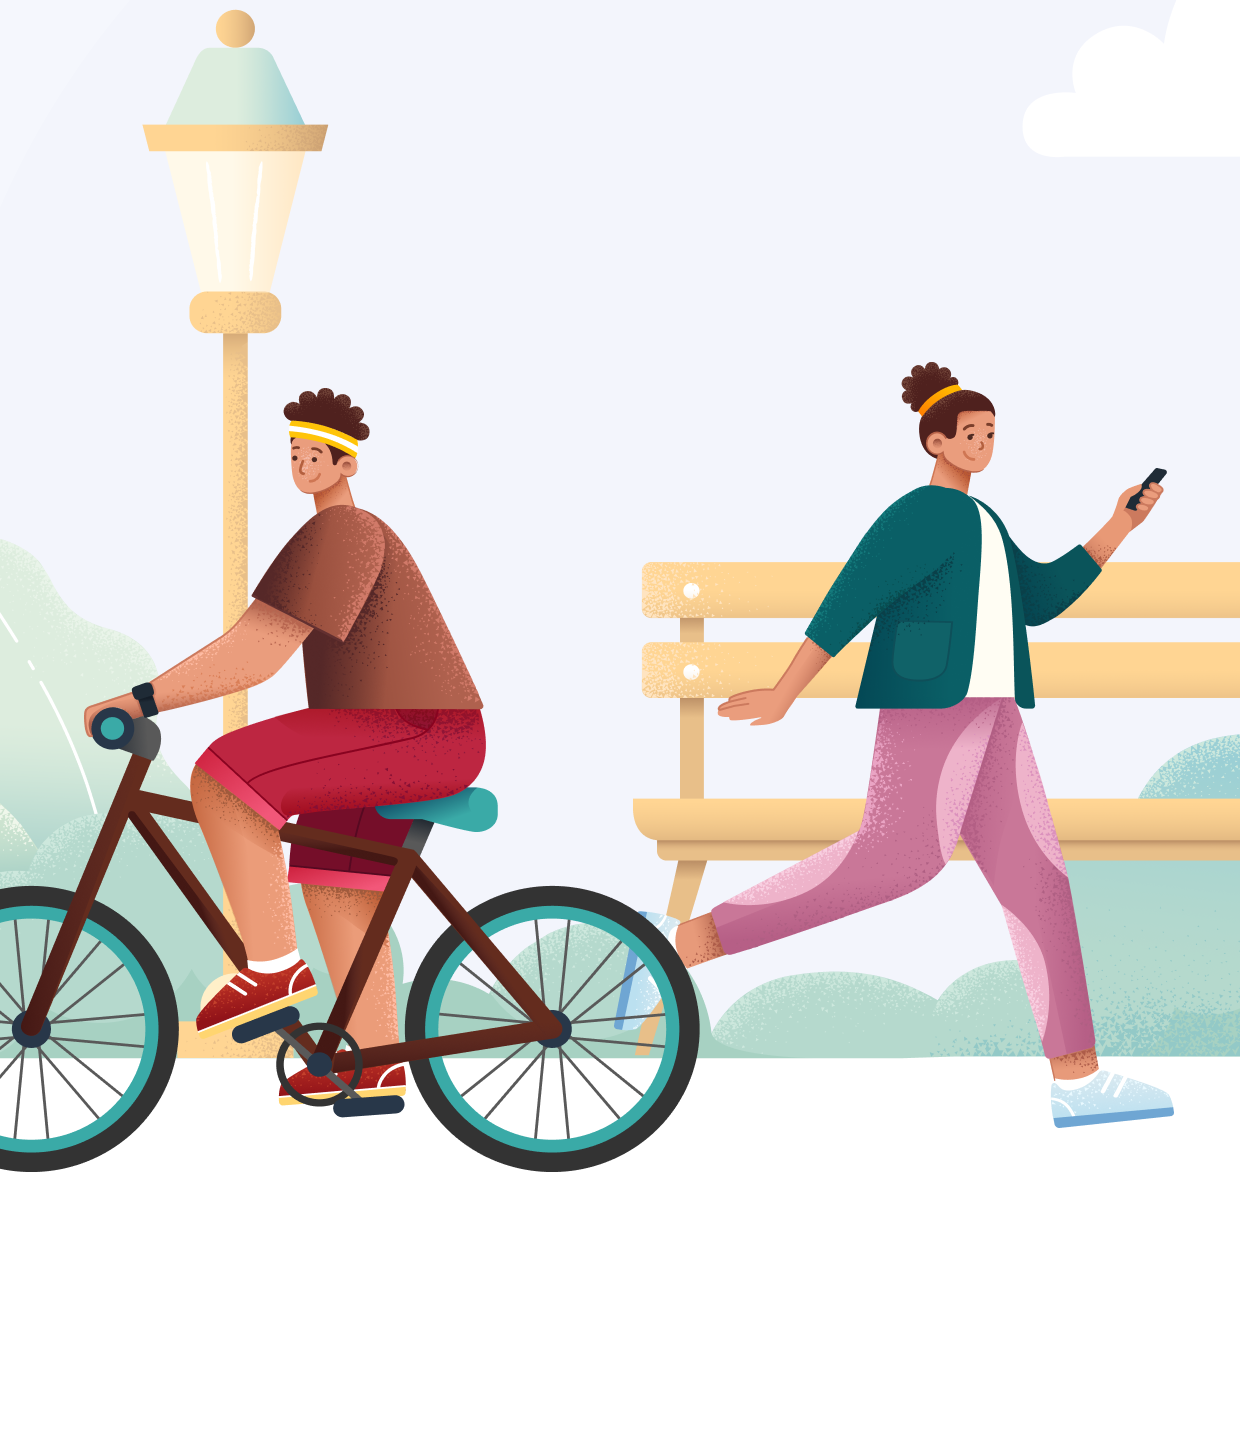
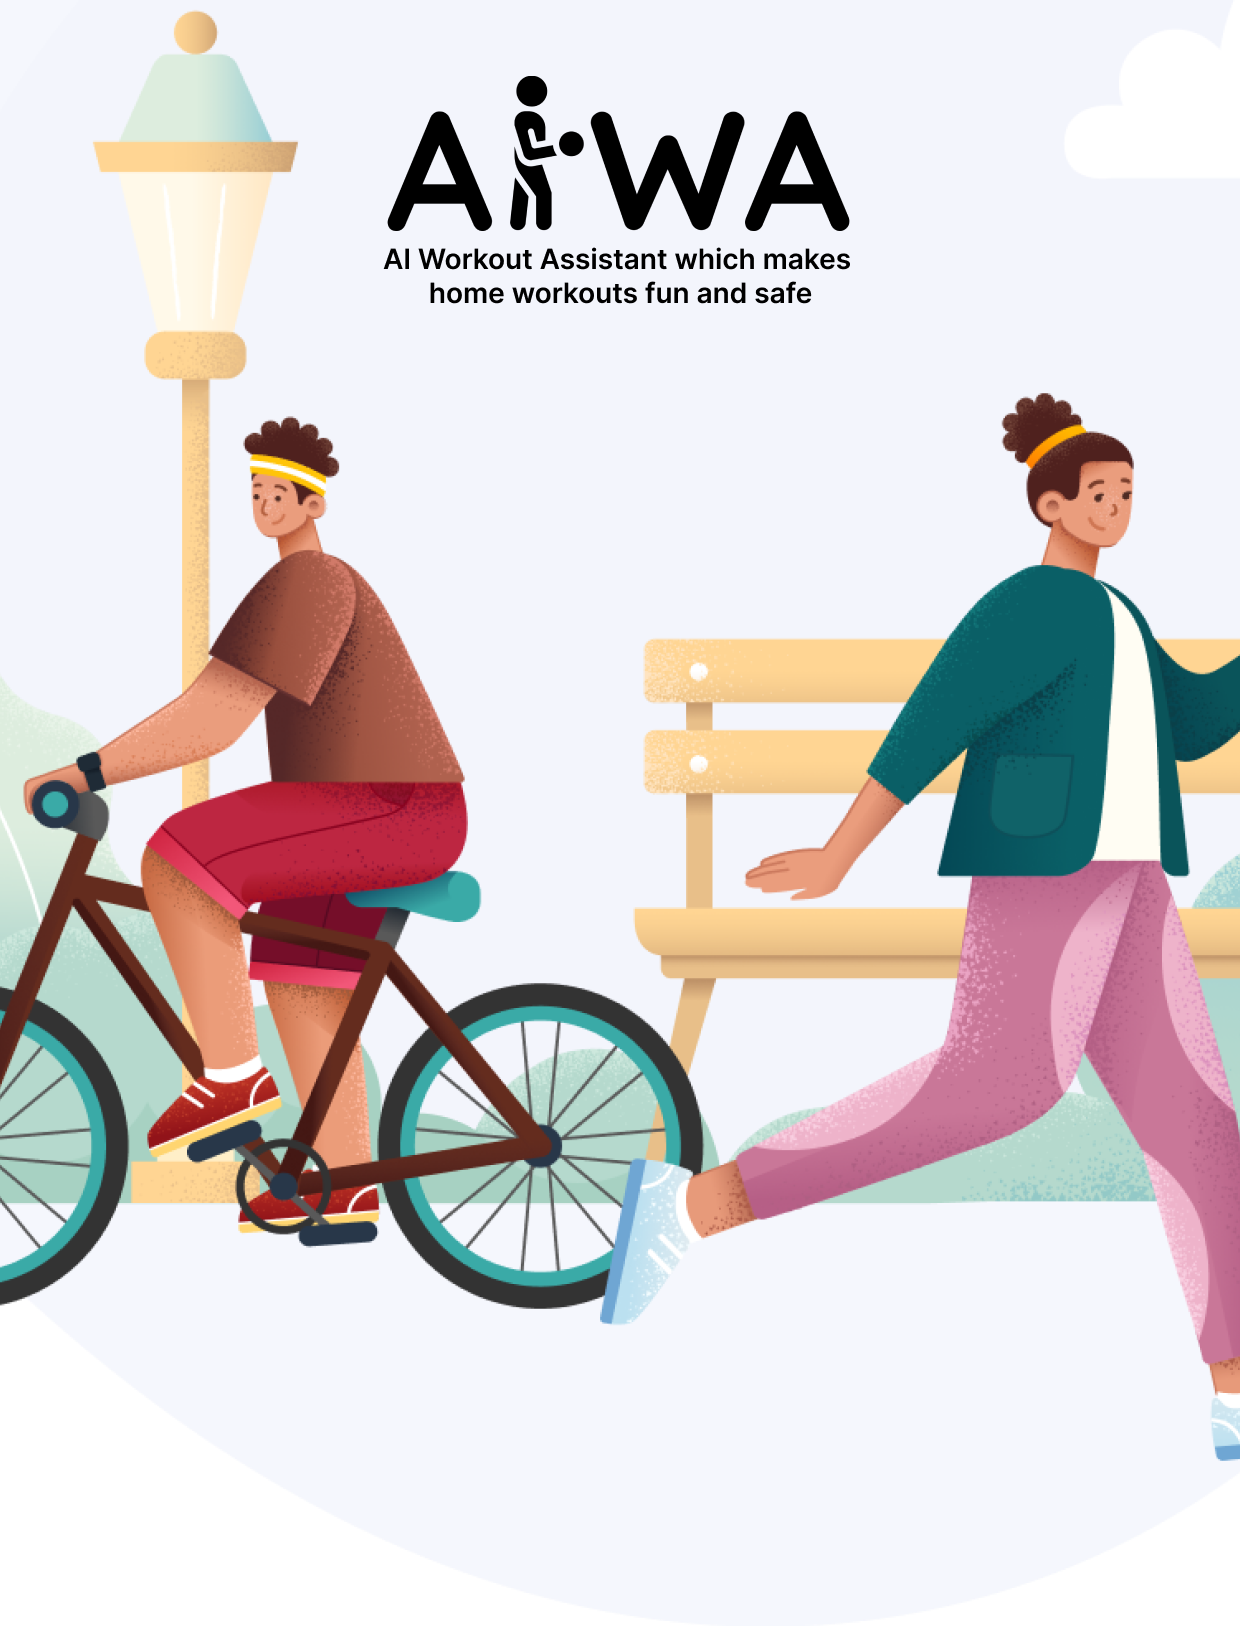
GUI complete😇 - ASK

Changed region(s): [[0.0, 0.0, 1.0, 0.9231], [0.3065, 0.0308, 0.7048, 0.1846]]

diff --git a/gui_for_aiwa.py b/gui_for_aiwa.py
@@ -1,21 +1,169 @@
 from CounterModule import *
 from tkinter import *
-from tkinter.ttk import *
+# from tkinter.ttk import *
+# import tkinter.ttk as ttk
 import tkinter as tk
-import tkinter.ttk as ttk
 import tkinter.font as font
 import time
 from PIL import Image, ImageTk
+
+'''def imageFunction():
+    img = (Image.open("C:\Programming\Aiwa\Assets\image 1.png"))
+    img = img.resize((620,712), Image.ANTIALIAS)
+    img = ImageTk.PhotoImage(img)
+    label = Label(introFrame, image = img)
+    label.place(x=int(0), y=(0))'''
+
+def lol():
+    print("Hello")
 
 root = tk.Tk(className='Main MENU')
 root.geometry("620x1000")
 root.minsize(620,1000)
 root.maxsize(620,1000)
 
-image = Image.open("Image File Path")
-
-
-introFrame = tk.Frame(root, bg= "#F3F5FC" )
+introFrame = tk.Frame(root, bg= "#F5F7FD" )
 introFrame.place(height=1000, width=630, x=0, y=0)
+
+homeFrame = tk.Frame(root, bg= "#F5F7FD" )
+homeFrame.place(height=1000, width=630, x=1000, y=0)
+
+workoutFrame = tk.Frame(root, bg= "#F5F7FD" )
+workoutFrame.place(height=1000, width=630, x=1000, y=0)
+
+difficultyFrame = tk.Frame(root, bg= "#F5F7FD" )
+difficultyFrame.place(height=1000, width=630, x=1000, y=0)
+
+
+
+def introFrameOpen():
+    introFrame.place(x=0,y=0) 
+    homeFrame.place(x=-630,y=0)
+    workoutFrame.place(x=-630,y=0)
+    difficultyFrame.place(x=-630,y=0)
+
+def homeFrameOpen():
+    homeFrame.place(x=0,y=0)
+    introFrame.place(x=-630,y=0)
+    workoutFrame.place(x=-630,y=0)
+    difficultyFrame.place(x=-630,y=0)
+
+def workoutFrameOpen():
+    workoutFrame.place(x=0,y=0)
+    homeFrame.place(x=-630,y=0)
+    introFrame.place(x=-630,y=0)
+    difficultyFrame.place(x=-630,y=0)
+
+def difficultyFrameOpen():
+    difficultyFrame.place(x=0,y=0)
+    workoutFrame.place(x=-630,y=0)
+    homeFrame.place(x=-630,y=0)
+    introFrame.place(x=-630,y=0)
+
+
+#######################################
+# Sign in frame
+
+landingImage = (Image.open("C:\Programming\Aiwa\Assets\image 1.png"))
+landingImage = landingImage.resize((620,813), Image.ANTIALIAS)
+landingImage = ImageTk.PhotoImage(landingImage)
+label = Label(introFrame, image = landingImage)
+label.place(x=int(0), y=(0))
+
+signupImage = Image.open("C:\Programming\Aiwa\Assets\image 3.png")
+signupImage = signupImage.resize((339,114), Image.ANTIALIAS)
+signupImage = ImageTk.PhotoImage(signupImage)
+startButton = Button(introFrame,image = signupImage ,bg='#F5F7FD',command = homeFrameOpen ,borderwidth = 0)
+startButton.place(x=141.15, y=707)
+
+startimage = Image.open("C:\Programming\Aiwa\Assets\image 4.png")
+startimage = startimage.resize((339,114), Image.ANTIALIAS)
+startimage = ImageTk.PhotoImage(startimage)
+startButton = Button(introFrame,image = startimage ,bg='#F5F7FD',command = homeFrameOpen ,borderwidth = 0)
+startButton.place(x=140 ,y=827)
+
+
+################################################################################
+#home Frame
+
+topimage = (Image.open("C:\Programming\Aiwa\Assets\page1_1.png"))
+topimage = topimage.resize((620,222), Image.ANTIALIAS)
+topimage = ImageTk.PhotoImage(topimage)
+label = Label(homeFrame, image = topimage,borderwidth = 0)
+label.place(x=0, y=0)
+
+buttonHome1 = Image.open("C:\Programming\Aiwa\Assets\page1_2.png")
+buttonHome1 = buttonHome1.resize((525,191), Image.ANTIALIAS)
+buttonHome1 = ImageTk.PhotoImage(buttonHome1)
+startButton = Button(homeFrame,image = buttonHome1 ,command = workoutFrameOpen ,borderwidth = 0)
+startButton.place(x=47 ,y=259)
+
+buttonHome2 = Image.open("C:\Programming\Aiwa\Assets\page1_3.png")
+buttonHome2 = buttonHome2.resize((525,191), Image.ANTIALIAS)
+buttonHome2 = ImageTk.PhotoImage(buttonHome2)
+startButton = Button(homeFrame,image = buttonHome2 ,command = workoutFrameOpen ,borderwidth = 0)
+startButton.place(x=47 ,y=487)
+
+buttonHome3 = Image.open("C:\Programming\Aiwa\Assets\page1_4.png")
+buttonHome3 = buttonHome3.resize((525,191), Image.ANTIALIAS)
+buttonHome3 = ImageTk.PhotoImage(buttonHome3)
+startButton = Button(homeFrame,image = buttonHome3 ,command = workoutFrameOpen ,borderwidth = 0)
+startButton.place(x=47 ,y=715)
+
+################################################################################
+#workout Frame
+
+topimage1 = (Image.open("C:\Programming\Aiwa\Assets\page2_1.png"))
+topimage1 = topimage1.resize((620,222), Image.ANTIALIAS)
+topimage1 = ImageTk.PhotoImage(topimage1)
+label = Label(workoutFrame, image = topimage,borderwidth = 0)
+label.place(x=0, y=0)
+
+buttonWorkout1 = Image.open("C:\Programming\Aiwa\Assets\page2_2.png")
+buttonWorkout1 = buttonWorkout1.resize((525,191), Image.ANTIALIAS)
+buttonWorkout1 = ImageTk.PhotoImage(buttonWorkout1)
+startButton = Button(workoutFrame,image = buttonWorkout1 ,command = difficultyFrameOpen ,borderwidth = 0)
+startButton.place(x=47 ,y=259)
+
+buttonWorkout2 = Image.open("C:\Programming\Aiwa\Assets\page2_3.png")
+buttonWorkout2 = buttonWorkout2.resize((525,191), Image.ANTIALIAS)
+buttonWorkout2 = ImageTk.PhotoImage(buttonWorkout2)
+startButton = Button(workoutFrame,image = buttonWorkout2 ,command = difficultyFrameOpen ,borderwidth = 0)
+startButton.place(x=47 ,y=487)
+
+buttonWorkout3 = Image.open("C:\Programming\Aiwa\Assets\page2_4.png")
+buttonWorkout3 = buttonWorkout3.resize((525,191), Image.ANTIALIAS)
+buttonWorkout3 = ImageTk.PhotoImage(buttonWorkout3)
+startButton = Button(workoutFrame,image = buttonWorkout3 ,command = difficultyFrameOpen ,borderwidth = 0)
+startButton.place(x=47 ,y=715)
+
+
+################################################################################
+#difficulty Frame
+
+topimage2 = (Image.open("C:\Programming\Aiwa\Assets\page3_1.png"))
+topimage2 = topimage2.resize((620,222), Image.ANTIALIAS)
+topimage2 = ImageTk.PhotoImage(topimage2)
+label = Label(difficultyFrame, image = topimage,borderwidth = 0)
+label.place(x=0, y=0)
+
+buttonDifficulty1 = Image.open("C:\Programming\Aiwa\Assets\page3_2.png")
+buttonDifficulty1 = buttonDifficulty1.resize((525,191), Image.ANTIALIAS)
+buttonDifficulty1 = ImageTk.PhotoImage(buttonDifficulty1)
+startButton = Button(difficultyFrame,image = buttonDifficulty1 ,command = workoutFrameOpen ,borderwidth = 0)
+startButton.place(x=47 ,y=259)
+
+buttonDifficulty2 = Image.open("C:\Programming\Aiwa\Assets\page3_3.png")
+buttonDifficulty2 = buttonDifficulty2.resize((525,191), Image.ANTIALIAS)
+buttonDifficulty2 = ImageTk.PhotoImage(buttonDifficulty2)
+startButton = Button(difficultyFrame,image = buttonDifficulty2 ,command = workoutFrameOpen ,borderwidth = 0)
+startButton.place(x=47 ,y=487)
+
+buttonDifficulty3 = Image.open("C:\Programming\Aiwa\Assets\page3_4.png")
+buttonDifficulty3 = buttonDifficulty3.resize((525,191), Image.ANTIALIAS)
+buttonDifficulty3 = ImageTk.PhotoImage(buttonDifficulty3)
+startButton = Button(difficultyFrame,image = buttonDifficulty3 ,command = workoutFrameOpen ,borderwidth = 0)
+startButton.place(x=47 ,y=715)
+
 
 root.mainloop()

diff --git a/main.py b/main.py
@@ -100,15 +100,15 @@ s.configure('my.TButton', font=('Helvetica', 13 ,"bold"))
 # buttonPhoto = ImageTk.PhotoImage(Image.open(r"C:\Programming\Python_Projects\Image_processing_projects\Pose_estimation\program7__b.jpg"))
 
 # MyButton1 = Button(root, text="Warm UP", image = buttonPhoto , command=exercise_callback , borderwidth=0 )
-MyButton1 = ttk.Button(root, text="Warm UP", command=exercise_callback)
+MyButton1 = Button(root, text="Warm UP", command=exercise_callback)
 MyButton1.grid(row=4, column=4)
 MyButton1.place(bordermode=OUTSIDE, height=200, width=300,x=160,y=200)
 
-MyButton2 = ttk.Button(root, text="Sitting Posture Detection", command= posture_detector_callback)
+MyButton2 = Button(root, text="Sitting Posture Detection", command= posture_detector_callback)
 MyButton2.grid(row=4, column=4)
 MyButton2.place(bordermode=OUTSIDE, height=200, width=300,x=160,y=450)
 
-MyButton3 = ttk.Button(root, text="Run and Jump", command=counter_time_callback)
+MyButton3 = Button(root, text="Run and Jump", command=counter_time_callback)
 MyButton3.grid(row=4, column=4)
 MyButton3.place(bordermode=OUTSIDE, height=200, width=300,x=160,y=700)
 

diff --git a/CounterModule.py b/CounterModule.py
@@ -20,7 +20,6 @@ def calculate_angle(a,b,c):#shoulder, elbow, wrist
     if angle >180.0:
         angle = 360-angle    
     return angle
-    
 def calculate_distance(a,b):
     a = np.array(a)
     b = np.array(b)
